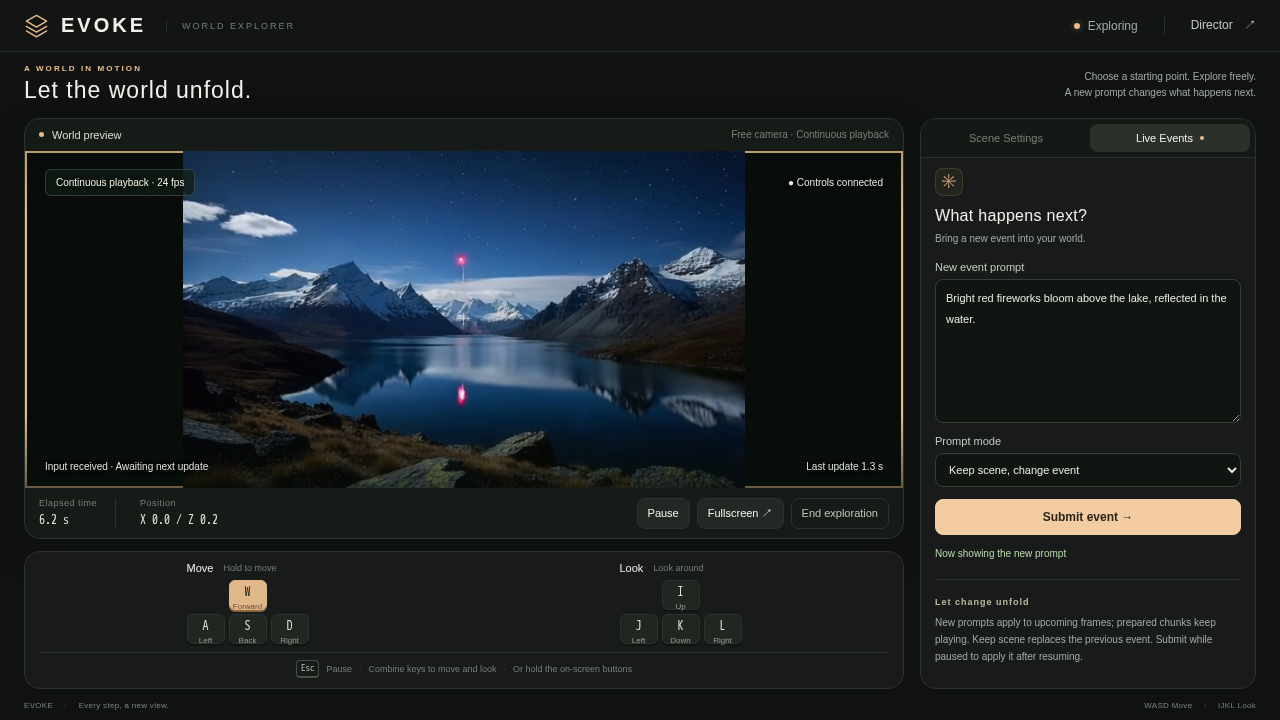
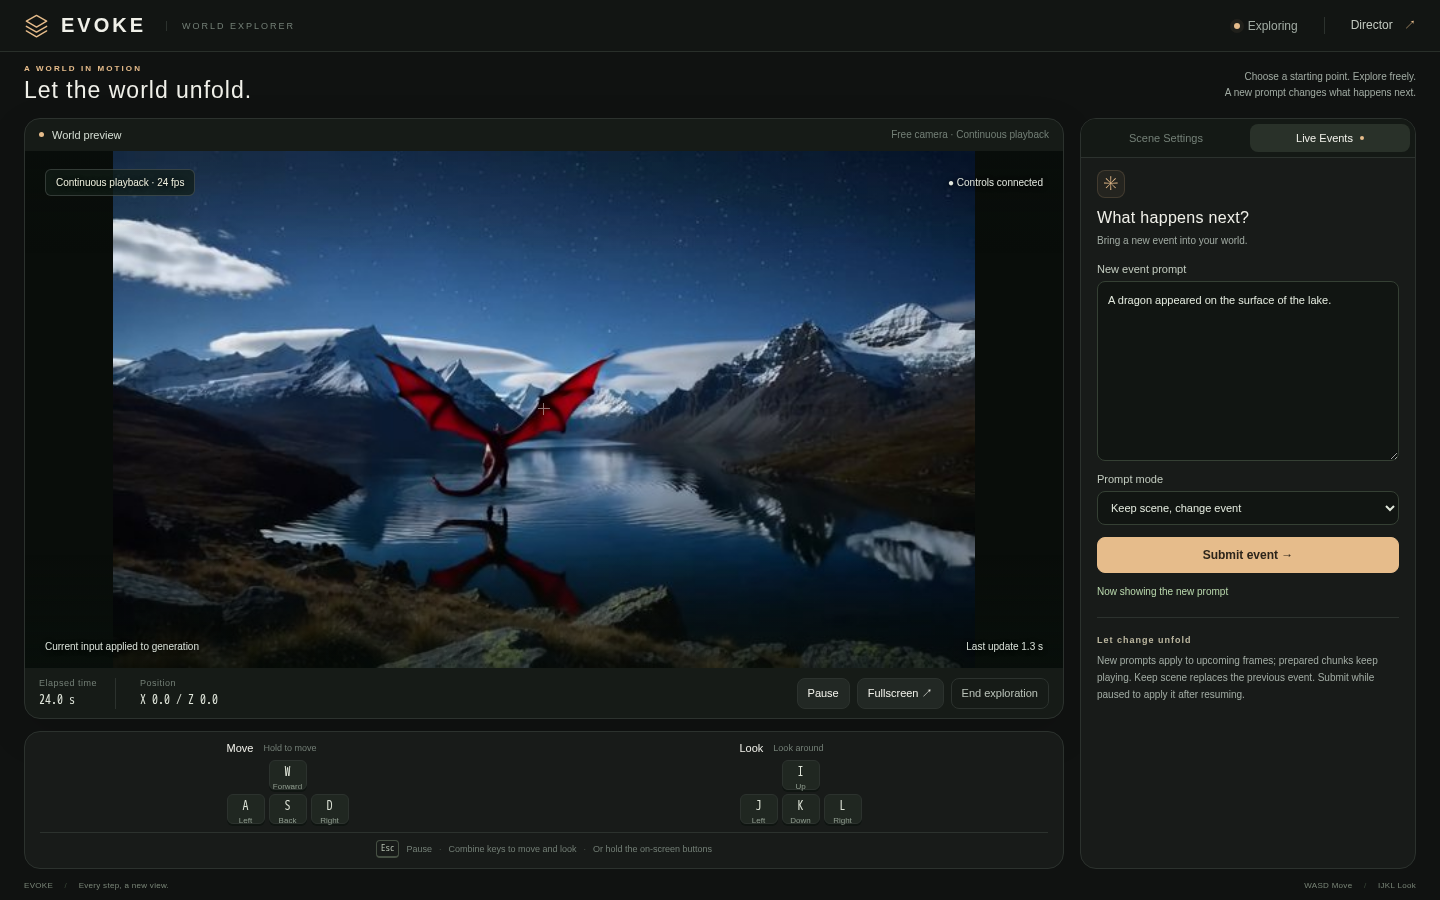
Refresh interactive UI preview with live dragon prompt

diff --git a/InteractiveUI/ui/static/player.js b/InteractiveUI/ui/static/player.js
@@ -362,5 +362,5 @@ $('reference').onchange=()=>{
 };
 async function health(){try{const h=await (await request('api/health')).json();const status=$('modelStatus');status.textContent=h.ready?(session?'Exploring':h.runtime?.phase==='generating'?'Service running':'Ready'):h.runtime?.phase==='error'?'Unavailable':'Preparing';status.dataset.state=h.ready?(session?'active':'ready'):h.runtime?.phase==='error'?'error':'loading';$('start').disabled=!h.ready||starting||!!session;if(session&&framePlayer)renderPlaybackStatus({state:framePlayer.buffering?'buffering':'playing',ready:framePlayer.readyCount()});else status.title='';}catch{$('modelStatus').textContent='Connecting';$('modelStatus').dataset.state='loading';$('start').disabled=true;}}
 setInterval(()=>{if(session)input();},100);setInterval(health,5000);health();
-request('api/live/references').then(r=>r.json()).then(data=>{for(const item of data.items){const button=document.createElement('button');button.type='button';button.className='reference-option';button.dataset.reference=item.id;button.setAttribute('aria-label',item.title);const image=document.createElement('img');image.src=url(item.imageUrl);image.alt=item.title;const title=document.createElement('span');title.textContent=item.title;button.append(image,title);button.onclick=()=>selectReference(item);$('referenceList').append(button);}const initial=data.items.find(item=>item.id==='meteor')||data.items[0];if(initial)selectReference(initial);sceneControls();}).catch(error=>notice(error.message));
+request('api/live/references').then(r=>r.json()).then(data=>{const titles={meteor:'Alpine Lake',aurora:'Ice Fields',gateway:'Stargate',crystalstorm:'Crystal Storm'};for(const item of data.items){item.title=titles[item.id]||item.title;const button=document.createElement('button');button.type='button';button.className='reference-option';button.dataset.reference=item.id;button.setAttribute('aria-label',item.title);const image=document.createElement('img');image.src=url(item.imageUrl);image.alt=item.title;const title=document.createElement('span');title.textContent=item.title;button.append(image,title);button.onclick=()=>selectReference(item);$('referenceList').append(button);}const initial=data.items.find(item=>item.id==='meteor')||data.items[0];if(initial)selectReference(initial);sceneControls();}).catch(error=>notice(error.message));
 window.addEventListener('pagehide',()=>{framePlayer?.stop();frameSource?.close();if(session){navigator.sendBeacon(url(`api/live/${session.id}/stop`));socket?.close();}});

diff --git a/InteractiveUI/ui/static/player.html b/InteractiveUI/ui/static/player.html
@@ -5,7 +5,7 @@
   <meta name="viewport" content="width=device-width,initial-scale=1">
   <meta name="theme-color" content="#101211">
   <title>EVOKE · World Explorer</title>
-  <link rel="stylesheet" href="../static/player.css?v=20260912-english-v1">
+  <link rel="stylesheet" href="../static/player.css?v=20260912-english-v2">
 </head>
 <body>
 <header class="site-header">
@@ -64,6 +64,6 @@
   <footer class="page-footer"><span>EVOKE <span class="footer-divider">/</span> Every step, a new view.</span><span>WASD Move <span class="footer-divider">/</span> IJKL Look</span></footer>
   <p id="notice" role="status" aria-live="polite"></p>
 </main>
-<script type="module" src="../static/player.js?v=20260912-english-v1"></script>
+<script type="module" src="../static/player.js?v=20260912-english-v2"></script>
 </body>
 </html>

diff --git a/InteractiveUI/README.md b/InteractiveUI/README.md
@@ -10,9 +10,7 @@ Scene selection, generation settings, and adjustable movement and camera rotatio
 
 Live exploration with keyboard controls and the prompt event panel:
 
-![EVOKE Interactive UI during live exploration, showing keyboard navigation and the prompt event panel](ui/assets/world-explorer-live.png)
-
-These screenshots were captured from the English interface during layout checks and a live inference test.
+![EVOKE Interactive UI showing a dragon above the lake after a live prompt update](ui/assets/world-explorer-live.png)
 
 ## Features
 
